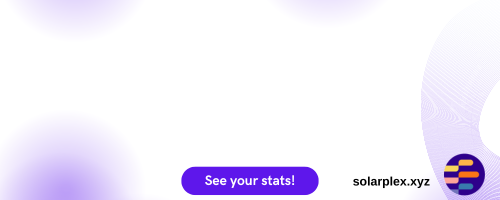
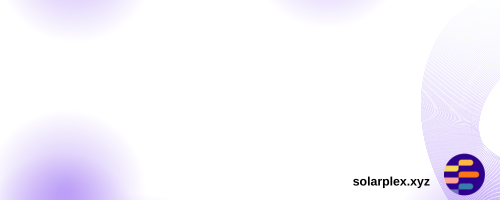
update share text and image

Changed region(s): [[0.36, 0.81, 0.66, 0.99]]

diff --git a/app/api/postFrameAction/[tokenAddress]/route.ts b/app/api/postFrameAction/[tokenAddress]/route.ts
@@ -61,7 +61,7 @@ async function getResponse(
             {
               label: `Share your status!`,
               action: "share",
-              text: `I've held ${tokenMetadata.symbol} for ${daysHeld} days! Check your status here: 
+              text: `I've held ${tokenMetadata.symbol} for ${daysHeld} days! See your stats on @solarplex_xyz here: 
               \n \n
               ${NEXT_PUBLIC_URL}/${tokenAddress}?did=${
                 body?.untrustedData?.did
